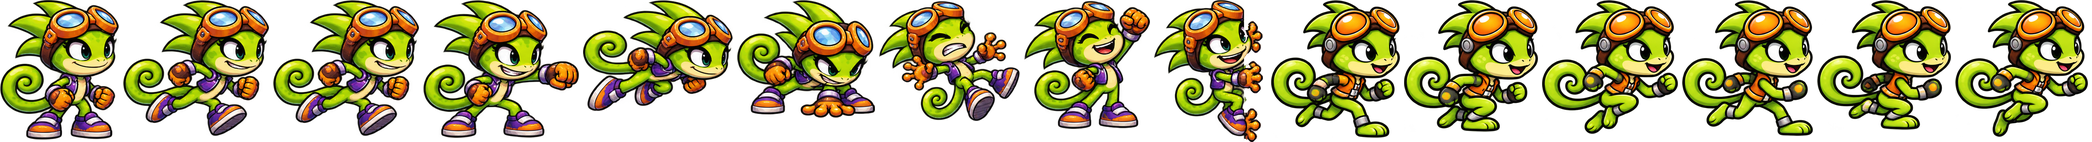
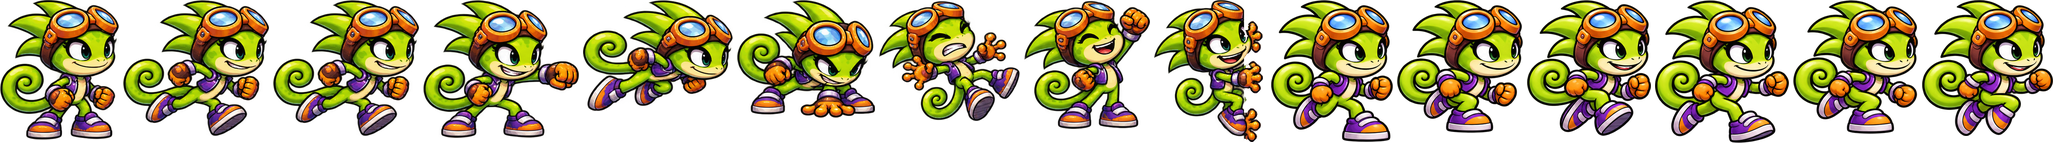
Bounce Brawl: Bonk and Zippa run cycles now match their outfits
Claude-Session: https://claude.ai/code/session_01RNNWXwWUfqm6hBPB1QMLBP

diff --git a/brawl.html b/brawl.html
@@ -312,7 +312,7 @@ function loadScript(src) { return new Promise((res, rej) => { const s = document
 const $ = id => document.getElementById(id);
 
 // frames in each fighter sheet: name -> [x, w, h, anchorX, anchorY] (anchor = between the feet)
-const META = {"pip":{"idle":[0,132,155,78,153],"run":[136,133,150,83,148],"jump":[273,131,142,71,140],"punch":[408,156,143,67,141],"dash":[568,122,128,65,126],"slam":[694,138,142,80,140],"hurt":[836,145,133,89,131],"win":[985,125,150,66,148],"run0":[1118,139,154,73,154],"run1":[1261,134,150,72,150],"run2":[1399,139,145,71,154],"run3":[1542,134,153,71,153],"run4":[1680,135,149,72,149],"run5":[1819,141,142,71,156]},"boulder":{"idle":[0,215,200,114,198],"run":[219,224,195,118,193],"jump":[447,198,184,89,182],"punch":[649,240,187,98,185],"dash":[893,210,168,81,166],"slam":[1107,245,178,135,176],"hurt":[1356,225,182,124,180],"win":[1585,204,212,96,210],"run0":[1797,219,199,110,199],"run1":[2020,207,192,102,191],"run2":[2231,222,184,113,201],"run3":[2457,224,201,112,200],"run4":[2685,217,195,108,195],"run5":[2906,226,195,114,208]},"bonk":{"idle":[0,187,206,95,204],"run":[191,204,196,100,194],"jump":[399,198,189,88,187],"punch":[601,225,194,86,192],"dash":[830,221,161,86,159],"slam":[1055,220,180,125,178],"hurt":[1279,217,188,129,186],"win":[1500,217,212,115,210],"run0":[1725,213,203,110,203],"run1":[1942,205,195,105,194],"run2":[2151,214,195,109,208],"run3":[2369,213,200,110,200],"run4":[2586,213,190,108,189],"run5":[2803,216,196,111,208]},"zippa":{"idle":[0,119,140,61,138],"run":[123,146,136,76,134],"jump":[273,146,136,76,134],"punch":[423,156,138,53,136],"dash":[583,150,111,60,109],"slam":[737,138,118,81,116],"hurt":[879,141,121,85,119],"win":[1024,126,129,60,127],"cling":[1154,109,142,74,140],"run0":[1271,129,138,76,138],"run1":[1404,134,132,79,131],"run2":[1542,136,134,80,148],"run3":[1682,131,136,78,137],"run4":[1817,134,130,80,130],"run5":[1955,133,137,78,147]},"gloop":{"idle":[0,135,96,68,94],"run":[139,143,88,70,86],"jump":[286,119,105,46,103],"punch":[409,190,91,69,89],"dash":[603,160,75,83,73],"slam":[767,165,80,82,78],"hurt":[936,117,96,54,94],"win":[1057,128,102,63,100],"puddle":[1189,158,41,79,39],"fist":[1351,118,64,29,62],"run0":[1477,126,100,64,99],"run1":[1607,135,96,78,96],"run2":[1746,161,87,100,87],"run3":[1911,167,82,108,82],"run4":[2082,152,88,94,88],"run5":[2238,130,97,63,98]},"frostbite":{"idle":[0,148,140,85,138],"run":[152,148,139,78,137],"jump":[304,165,136,82,134],"punch":[473,173,132,71,130],"dash":[650,159,120,72,118],"slam":[813,174,133,95,131],"hurt":[991,183,130,105,128],"win":[1178,164,144,96,142],"run0":[1350,130,139,70,139],"run1":[1484,124,135,70,135],"run2":[1612,134,138,70,140],"run3":[1750,134,143,70,142],"run4":[1888,127,142,71,141],"run5":[2019,133,138,72,147]}};
+const META = {"pip":{"idle":[0,132,155,78,153],"run":[136,133,150,83,148],"jump":[273,131,142,71,140],"punch":[408,156,143,67,141],"dash":[568,122,128,65,126],"slam":[694,138,142,80,140],"hurt":[836,145,133,89,131],"win":[985,125,150,66,148],"run0":[1118,139,154,73,154],"run1":[1261,134,150,72,150],"run2":[1399,139,145,71,154],"run3":[1542,134,153,71,153],"run4":[1680,135,149,72,149],"run5":[1819,141,142,71,156]},"boulder":{"idle":[0,215,200,114,198],"run":[219,224,195,118,193],"jump":[447,198,184,89,182],"punch":[649,240,187,98,185],"dash":[893,210,168,81,166],"slam":[1107,245,178,135,176],"hurt":[1356,225,182,124,180],"win":[1585,204,212,96,210],"run0":[1797,219,199,110,199],"run1":[2020,207,192,102,191],"run2":[2231,222,184,113,201],"run3":[2457,224,201,112,200],"run4":[2685,217,195,108,195],"run5":[2906,226,195,114,208]},"bonk":{"idle":[0,187,206,95,204],"run":[191,204,196,100,194],"jump":[399,198,189,88,187],"punch":[601,225,194,86,192],"dash":[830,221,161,86,159],"slam":[1055,220,180,125,178],"hurt":[1279,217,188,129,186],"win":[1500,217,212,115,210],"run0":[1725,197,199,106,198],"run1":[1926,190,189,104,189],"run2":[2120,188,190,99,208],"run3":[2312,206,201,110,201],"run4":[2522,198,190,106,189],"run5":[2724,196,196,103,211]},"zippa":{"idle":[0,119,140,61,138],"run":[123,146,136,76,134],"jump":[273,146,136,76,134],"punch":[423,156,138,53,136],"dash":[583,150,111,60,109],"slam":[737,138,118,81,116],"hurt":[879,141,121,85,119],"win":[1024,126,129,60,127],"cling":[1154,109,142,74,140],"run0":[1271,122,142,64,142],"run1":[1397,126,133,69,133],"run2":[1527,124,136,68,146],"run3":[1655,134,143,67,143],"run4":[1793,125,134,68,134],"run5":[1922,131,136,69,150]},"gloop":{"idle":[0,135,96,68,94],"run":[139,143,88,70,86],"jump":[286,119,105,46,103],"punch":[409,190,91,69,89],"dash":[603,160,75,83,73],"slam":[767,165,80,82,78],"hurt":[936,117,96,54,94],"win":[1057,128,102,63,100],"puddle":[1189,158,41,79,39],"fist":[1351,118,64,29,62],"run0":[1477,126,100,64,99],"run1":[1607,135,96,78,96],"run2":[1746,161,87,100,87],"run3":[1911,167,82,108,82],"run4":[2082,152,88,94,88],"run5":[2238,130,97,63,98]},"frostbite":{"idle":[0,148,140,85,138],"run":[152,148,139,78,137],"jump":[304,165,136,82,134],"punch":[473,173,132,71,130],"dash":[650,159,120,72,118],"slam":[813,174,133,95,131],"hurt":[991,183,130,105,128],"win":[1178,164,144,96,142],"run0":[1350,130,139,70,139],"run1":[1484,124,135,70,135],"run2":[1612,134,138,70,140],"run3":[1750,134,143,70,142],"run4":[1888,127,142,71,141],"run5":[2019,133,138,72,147]}};
 
 // ---------------------------------------------------------------------
 //  FIGHTERS – tune the feel here
